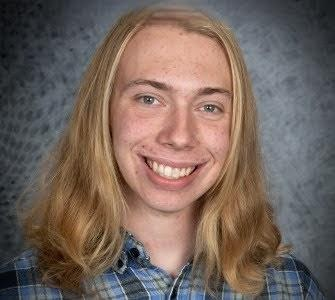
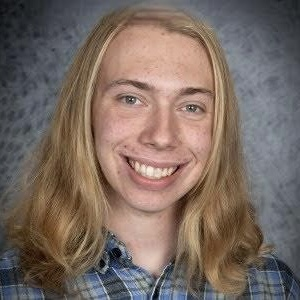
fixed size of pfps

diff --git a/terrapin_tracker/turtles/static/turtles/about_style.css b/terrapin_tracker/turtles/static/turtles/about_style.css
@@ -1,67 +1,83 @@
+h2{
+  text-decoration: underline;
+}
+.row{
+  display: flex;
+  justify-content: space-between;
+  align-items: center;
+}
+.column {
+  float: left;
+  width: 25%;
+  margin-bottom: 16px;
+  padding: 0 8px;
+  margin-left:auto;
+  margin-right: auto;
+}
 
+.card {
+  box-shadow: 0 4px 8px 0 rgba(0, 0, 0, 0.2);
+  margin: 8px;
+}
+
+.about-section {
+  text-align: center;
+  background-color: rgb(26,82,94);
+  color: white;
+  margin: auto auto 20px ;
+  padding-bottom:20px;
+  display: flex;
+  justify-content: center;
+  align-items: center;
+  width:80%;
+  flex-direction: column;
+}
+p.description{
+  text-align: justify;
+  margin: 0;
+  width: 50%;
+  padding-bottom:5px;
+  text-indent: 25px;
+}
+
+.container {
+  padding: 0 16px;
+}
+
+.container::after, .row::after {
+  content: "";
+  clear: both;
+  display: table;
+}
+
+.title {
+  color: black;
+}
+
+.contact_button {
+  border: none;
+  outline: 0;
+  display: inline-block;
+  padding: 8px;
+  color: white;
+  background-color: rgb(26,82,94);
+  text-align: center;
+  cursor: pointer;
+  width: 100%;
+}
+
+.contact_button:hover {
+  background-color: rgb(45, 125, 143);
+}
+
+@media screen and (max-width: 650px) {
   .column {
-    float: left;
-    width: 32%;
-    margin-bottom: 16px;
-    padding: 0 8px;
-  }
-  
-  .card {
-    box-shadow: 0 4px 8px 0 rgba(0, 0, 0, 0.2);
-    margin: 8px;
-  }
-  
-  .about-section {
-    text-align: center;
-    background-color: rgb(26,82,94);
-    color: white;
-    margin:auto;
-    width:80%;
-    padding:0px 10px 10px 10px;
-  }
-  p.description{
-    text-align: justify;
-    margin:5px 10px;
-  }
-  
-  .container {
-    padding: 0 16px;
-  }
-  
-  .container::after, .row::after {
-    content: "";
-    clear: both;
-    display: table;
-  }
-  
-  .title {
-    color: black;
-  }
-  
-  .contact_button {
-    border: none;
-    outline: 0;
-    display: inline-block;
-    padding: 8px;
-    color: white;
-    background-color: rgb(26,82,94);
-    text-align: center;
-    cursor: pointer;
     width: 100%;
+    display: block;
   }
-  
-  .contact_button:hover {
-    background-color: rgb(45, 125, 143);
-  }
-  
-  @media screen and (max-width: 650px) {
-    .column {
-      width: 100%;
-      display: block;
-    }
-  }
+}
 
-  .profile_picture{
-    height:90%;
-    width:auto;
-  }
+.profile_picture{
+  height:90%;
+  width:auto;
+}

diff --git a/terrapin_tracker/turtles/templates/turtles/about.html b/terrapin_tracker/turtles/templates/turtles/about.html
@@ -10,8 +10,8 @@
 <div class = "about">
   <div class="about-section">
     <h1>About Us</h1>
-    <p class = description>This website is used by Project Terrapin to avoid tracking the growth of hatchlings through spreadsheets; the data is directly input into the website by members.</p>
-    <p class = description>Our project aims to help raise awareness of the dangers that face the Northern Diamondback Terrapin species. They are a keystone species in the Barnegat Bay, meaning they are essential to the survival of the ecosystem. Our website will hopefully inspire others to get involved in the protection of terrapins, and potentially let them track the growth of hatchlings they may have found, giving them a more personal connection to the turtle(s) they helped to save.</p>
+    <p class = description>    This website is used by Project Terrapin to avoid tracking the growth of hatchlings through spreadsheets; the data is directly input into the website by members.</p>
+    <p class = description>    Our project aims to help raise awareness of the dangers that face the Northern Diamondback Terrapin species. They are a keystone species in the Barnegat Bay, meaning they are essential to the survival of the ecosystem. Our website will hopefully inspire others to get involved in the protection of terrapins, and potentially let them track the growth of hatchlings they may have found, giving them a more personal connection to the turtle(s) they helped to save.</p>
   </div>
   
   <h2 style="text-align:center">Our Team</h2>

diff --git a/terrapin_tracker/turtles/migrations/0001_initial.py b/terrapin_tracker/turtles/migrations/0001_initial.py
@@ -1,4 +1,4 @@
-# Generated by Django 4.1.7 on 2023-03-16 16:16
+# Generated by Django 4.1.7 on 2023-03-17 13:28
 
 from django.db import migrations, models
 import django.db.models.deletion
@@ -30,7 +30,7 @@ class Migration(migrations.Migration):
                     "editor",
                     models.TextField(default="Administrator", verbose_name="Editor"),
                 ),
-                ("archived", models.BooleanField(blank=True, null=True)),
+                ("archived", models.BooleanField(default=False)),
                 (
                     "valid_from",
                     models.DateTimeField(
